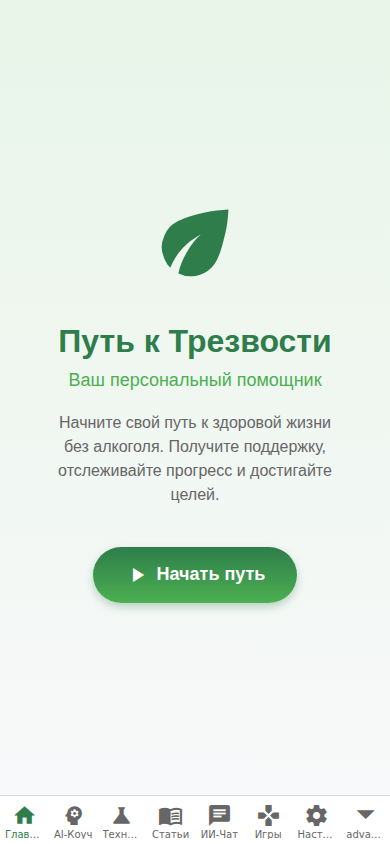
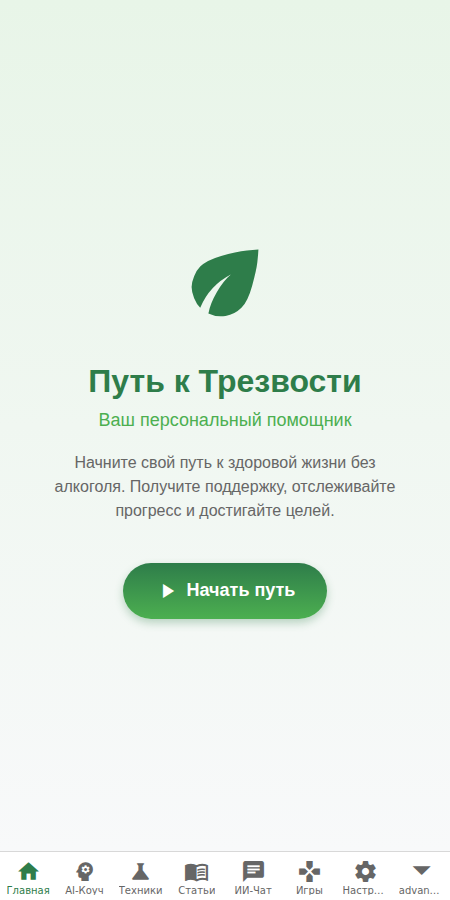
Масштабный рефакторинг, интернационализация и обновление документации
- Полный переход на архитектуру MVVM (View-ViewModel-Service).
- Интернационализация (EN/RU) для всех ключевых разделов приложения.
- Консолидация сервисов и восстановление терапевтического контента.
- Настройка Jest и добавление юнит-тестов.
- Переход на expo-av для совместимости звука с Android.
- Обновление README.md: добавлено описание и скриншоты всех разделов.
- Удаление неиспользуемых зависимостей для оптимизации проекта.

diff --git a/README.md b/README.md
@@ -5,8 +5,11 @@
 ## 📸 Интерфейс приложения
 
 <div align="center">
-  <img src="assets/screenshots/1_welcome.png" width="300" alt="Onboarding" />
-  <img src="assets/screenshots/2_home.png" width="300" alt="Home Screen" />
+  <img src="assets/screenshots/1_welcome.png" width="200" alt="Onboarding" />
+  <img src="assets/screenshots/2_home.png" width="200" alt="Home Screen" />
+  <img src="assets/screenshots/3_ai_coach.png" width="200" alt="AI Coach" />
+  <img src="assets/screenshots/4_analytics.png" width="200" alt="Analytics" />
+  <img src="assets/screenshots/5_therapy.png" width="200" alt="Advanced Therapy" />
 </div>
 
 ## ✨ Основные функции
@@ -43,7 +46,7 @@
 В рамках ревью проекта были выполнены следующие работы:
 - **Рефакторинг**: Переход на архитектуру MVVM для улучшения тестируемости и чистоты кода.
 - **Консолидация**: Объединение разрозненных сервисов в единые модули `PsychologyService` и `AICoachService`.
-- **Локализация**: Внедрена система i18n, переведены основные разделы приложения.
+- **Локализация**: Внедрена система i18n, переведены все основные разделы приложения.
 - **Оптимизация**: Удалены неиспользуемые зависимости, исправлены ошибки импорта.
 - **Android Ready**: Обеспечена корректная работа аудио и UI на Android-устройствах.
 - **Тестирование**: Добавлены юнит-тесты для критической бизнес-логики.